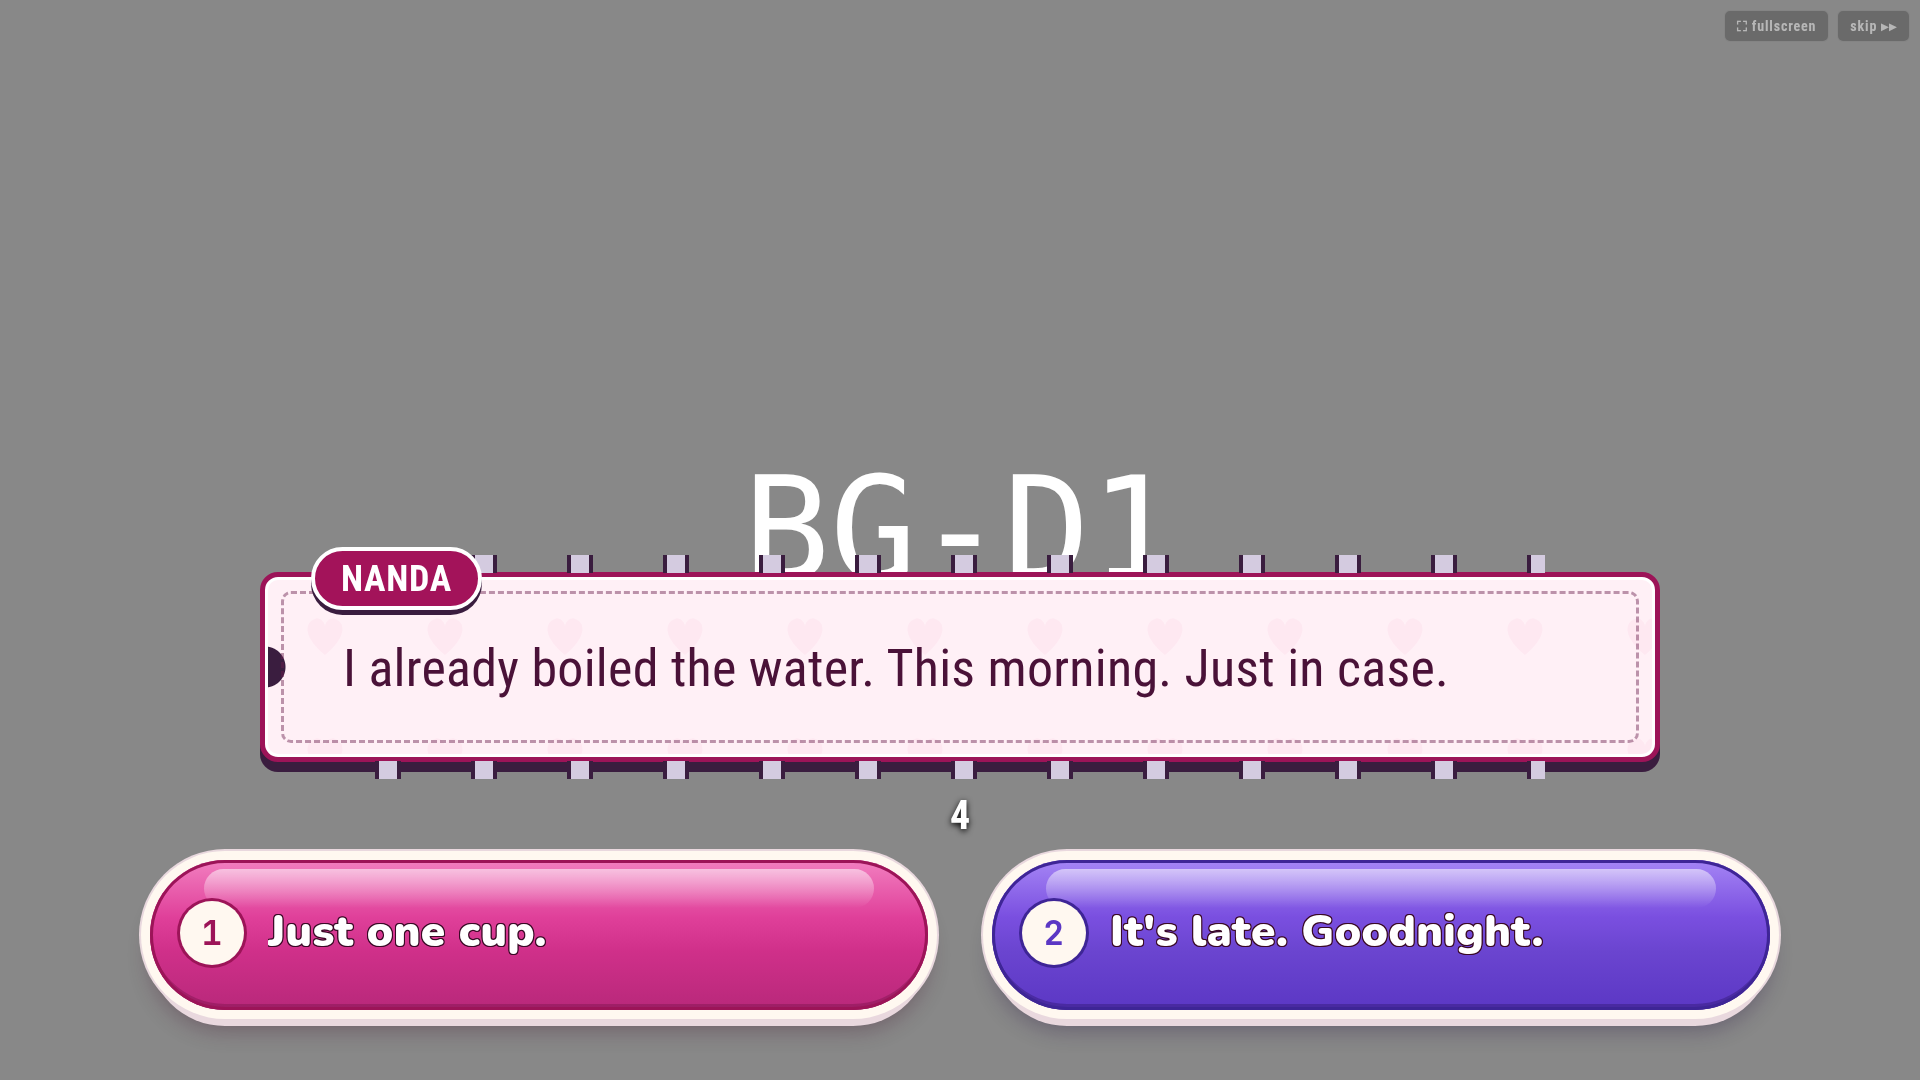
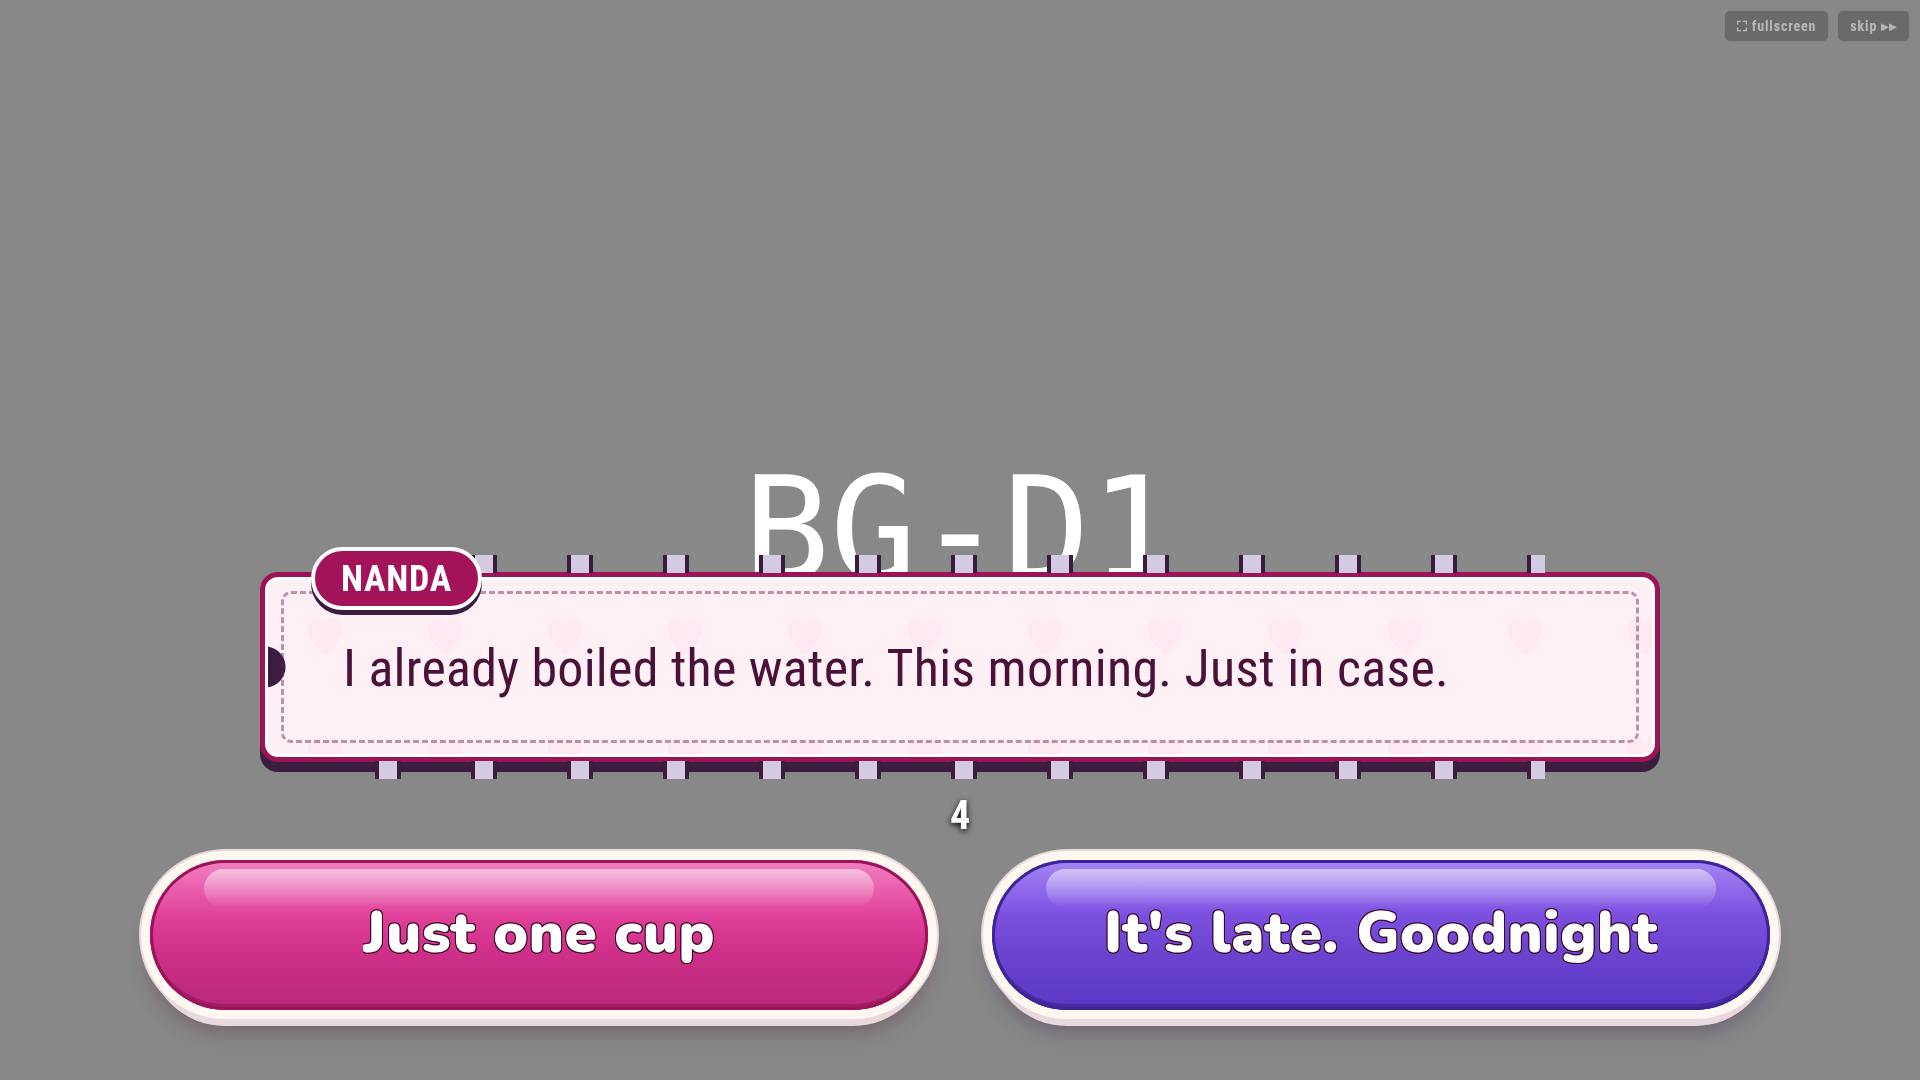
date-beta: choice buttons — no number key, centred 58px label, no trailing period (loader enforces, SCENES.md rule)
Claude-Session: https://claude.ai/code/session_01LMp4ytNc9QnJ9wNrbmcww6

Changed region(s): [[0.5312, 0.825, 0.875, 0.9167], [0.0938, 0.825, 0.375, 0.9167]]

diff --git a/src/date-beta/beta.css b/src/date-beta/beta.css
@@ -62,22 +62,19 @@ body { font-family: var(--cond); color: var(--ink); }
 .stage:has(.db-choices) .db-say { bottom: 318px; }
 .db-choices { position: absolute; left: 150px; right: 150px; bottom: 70px; display: grid; grid-template-columns: repeat(2, minmax(0, 1fr));
   gap: 64px; z-index: 5; }
-.db-choice { position: relative; isolation: isolate; display: flex; align-items: center; gap: 24px; min-width: 0; min-height: 150px;
-  padding: 22px 48px 26px 30px; border: 0; border-radius: 999px; cursor: pointer; text-align: left; color: #fff;
-  font: 900 44px/1.12 var(--btn); letter-spacing: .01em; text-shadow: var(--g-ring); background: var(--g-pink);
+.db-choice { position: relative; isolation: isolate; display: flex; align-items: center; justify-content: center; min-width: 0; min-height: 150px;
+  padding: 22px 48px 26px; border: 0; border-radius: 999px; cursor: pointer; text-align: center; color: #fff;
+  font: 900 58px/1.08 var(--btn); letter-spacing: .01em; text-shadow: var(--g-ring); background: var(--g-pink);
   box-shadow: inset 0 0 0 3px var(--g-pink-edge), inset 0 -6px 0 rgba(90, 8, 50, .28), 0 0 0 9px var(--g-rim),
     0 0 0 11px var(--g-rim-edge), 0 14px 0 2px var(--g-rim-edge), 0 20px 22px rgba(58, 10, 38, .32); }
 /* highlight band: kept thin + faint so wrapped white text on the top line stays readable */
 .db-choice::before { content: ''; position: absolute; left: 7%; right: 7%; top: 6%; height: 26%; border-radius: 999px; z-index: -1;
   pointer-events: none; background: linear-gradient(180deg, rgba(255, 255, 255, .55), rgba(255, 255, 255, 0)); }
-.db-choice .key { flex: none; display: grid; place-items: center; width: 64px; height: 64px; border-radius: 50%;
-  background: var(--g-rim); color: #9c1458; font: 700 34px/1 var(--mono); text-shadow: none; box-shadow: 0 0 0 3px var(--g-pink-edge); }
 .db-choice .line { min-width: 0; overflow-wrap: anywhere; display: -webkit-box; -webkit-box-orient: vertical; -webkit-line-clamp: 2;
   line-clamp: 2; overflow: hidden; }
 .db-choice.purple { background: var(--g-purple);
   box-shadow: inset 0 0 0 3px var(--g-purple-edge), inset 0 -6px 0 rgba(30, 10, 80, .3), 0 0 0 9px var(--g-rim),
     0 0 0 11px var(--g-rim-edge), 0 14px 0 2px var(--g-rim-edge), 0 20px 22px rgba(30, 10, 60, .32); }
-.db-choice.purple .key { color: var(--purple-deep); box-shadow: 0 0 0 3px var(--g-purple-edge); }
 /* rule C on a choice: dark body, the side colour stays on the rim + key so pink/purple still reads */
 .db-choice.has-or { background: var(--g-dark); color: var(--scrim-ink); text-shadow: none; }
 .db-choice.has-or::before { background: linear-gradient(180deg, rgba(255, 255, 255, .22), rgba(255, 255, 255, 0)); }
@@ -85,8 +82,6 @@ body { font-family: var(--cond); color: var(--ink); }
   0 14px 0 2px var(--g-rim-edge), 0 20px 22px rgba(26, 7, 16, .4); }
 .db-choice.purple.has-or { box-shadow: inset 0 0 0 7px var(--purple), 0 0 0 9px var(--g-rim), 0 0 0 11px var(--g-rim-edge),
   0 14px 0 2px var(--g-rim-edge), 0 20px 22px rgba(26, 7, 16, .4); }
-.db-choice.pink.has-or .key { background: var(--pink); color: #000; box-shadow: none; }
-.db-choice.purple.has-or .key { background: var(--purple-deep); color: #fff; box-shadow: none; }
 .db-choice:hover, .db-choice:focus-visible { outline: 6px solid var(--edge); outline-offset: 16px; }
 .db-choice:active { transform: translateY(8px); filter: brightness(.9); }
 [data-scare="2"] .db-choice { outline: 4px solid var(--scrim); }

diff --git a/src/date-beta-spine.test.js b/src/date-beta-spine.test.js
@@ -29,11 +29,11 @@ function walk(picks, rm = false) {
 
 const SHARED = ['splash', 'rooftop', 'train', 'naan', 'blackout', 'door'];
 const PATHS = {
-  STEEPED: { picks: [null, 'Just one cup.', 'Drink.'], via: ['cup', 'steeped'], card: 'STEEPED.' },
-  'ESCAPE-win': { picks: [null, 'Just one cup.', 'Stand up.', '[win]'], via: ['cup', 'unknown', 'escape', 'escape-win'], card: 'ESCAPE.' },
-  'ESCAPE-timeout': { picks: [null, 'Just one cup.', 'Stand up.', '[timeout]'], via: ['cup', 'unknown', 'escape', 'escape-timeout'], card: 'ESCAPE.' },
-  'LEAVE (refuse)': { picks: [null, "It's late. Goodnight.", "FUCK YOU. I'm leaving."], via: ['leave', 'leave-fu'], card: 'LEAVE.' },
-  'LEAVE (agree)': { picks: [null, "It's late. Goodnight.", 'uhmmm yeah ig'], via: ['leave', 'leave-yeah'], card: 'LEAVE.' },
+  STEEPED: { picks: [null, 'Just one cup', 'Drink'], via: ['cup', 'steeped'], card: 'STEEPED.' },
+  'ESCAPE-win': { picks: [null, 'Just one cup', 'Stand up', '[win]'], via: ['cup', 'unknown', 'escape', 'escape-win'], card: 'ESCAPE.' },
+  'ESCAPE-timeout': { picks: [null, 'Just one cup', 'Stand up', '[timeout]'], via: ['cup', 'unknown', 'escape', 'escape-timeout'], card: 'ESCAPE.' },
+  'LEAVE (refuse)': { picks: [null, "It's late. Goodnight", "FUCK YOU. I'm leaving"], via: ['leave', 'leave-fu'], card: 'LEAVE.' },
+  'LEAVE (agree)': { picks: [null, "It's late. Goodnight", 'uhmmm yeah ig'], via: ['leave', 'leave-yeah'], card: 'LEAVE.' },
 };
 
 for (const [name, { picks, via, card }] of Object.entries(PATHS)) {

diff --git a/src/date-beta/engine.js b/src/date-beta/engine.js
@@ -158,6 +158,7 @@ function loadChoices(list, at) {
     keys(c, 'choice', where);
     if (typeof c.text !== 'string' || !c.text.trim()) fail(where, 'needs text');
     if (words(c.text) > MAX_WORDS) fail(where, `text has ${words(c.text)} words, max ${MAX_WORDS}`);
+    if (/\.\s*$/.test(c.text)) fail(where, 'button text ends with "." (actions are fragments, no period)');
     const side = c.side ?? SIDES[i];
     if (!SIDES.includes(side)) fail(where, `side "${side}" is not one of ${SIDES.join('|')}`);
     if (sides.has(side)) fail(where, `two choices on the ${side} side`);

diff --git a/src/date-beta/Say.jsx b/src/date-beta/Say.jsx
@@ -38,7 +38,6 @@ export function Choices({ choices, onPick, on = [], left = null }) {
       {choices.map((c, i) => (
         <button type="button" key={i} className={`db-choice ${c.side}${c.hasOr ? ' has-or' : ''}`}
           disabled={on[i] === false} aria-label={`${i + 1}: ${c.plain}`} onClick={(e) => { e.stopPropagation(); onPick(i); }}>
-          <span className="key" aria-hidden="true">{i + 1}</span>
           <span className="line"><Parts parts={c.parts} /></span>
         </button>
       ))}

diff --git a/src/date-beta/SCENES.md b/src/date-beta/SCENES.md
@@ -27,7 +27,7 @@ a `go` to a missing scene, an asset id missing from `assets.json` or of the wron
 
 | field | type | meaning |
 |---|---|---|
-| `text` | string, max 12 words | Button label. |
+| `text` | string, max 12 words | Button label. An action fragment ("Drink", "Stand up"), not a full sentence. No trailing period (the loader rejects it). |
 | `side` | `pink` or `purple` | Defaults by position (pink, then purple). |
 | `default` | bool | What the timer picks. At most one per beat. |
 | `if` | flags object | Enabled only when every key equals its flag. A missing flag reads as `null`. A disabled choice is shown but can't be picked. |
@@ -42,3 +42,8 @@ a `go` to a missing scene, an asset id missing from `assets.json` or of the wron
 | `defaults` | Flags object. Skipping the scene (Esc or S) merges these in, so the flags look as if the scene had played its default path. |
 
 Flag values are strings, numbers, booleans or `null`. Root keys: `version`, `note`, `scenes`.
+
+## Choice buttons (Tony, Mon 9/28)
+- No number key on the button. Keys 1/2 still pick, but nothing is drawn.
+- Label centred, 58px (was 44px left-aligned).
+- Label = action fragment. No trailing period. Applies to every choice.
